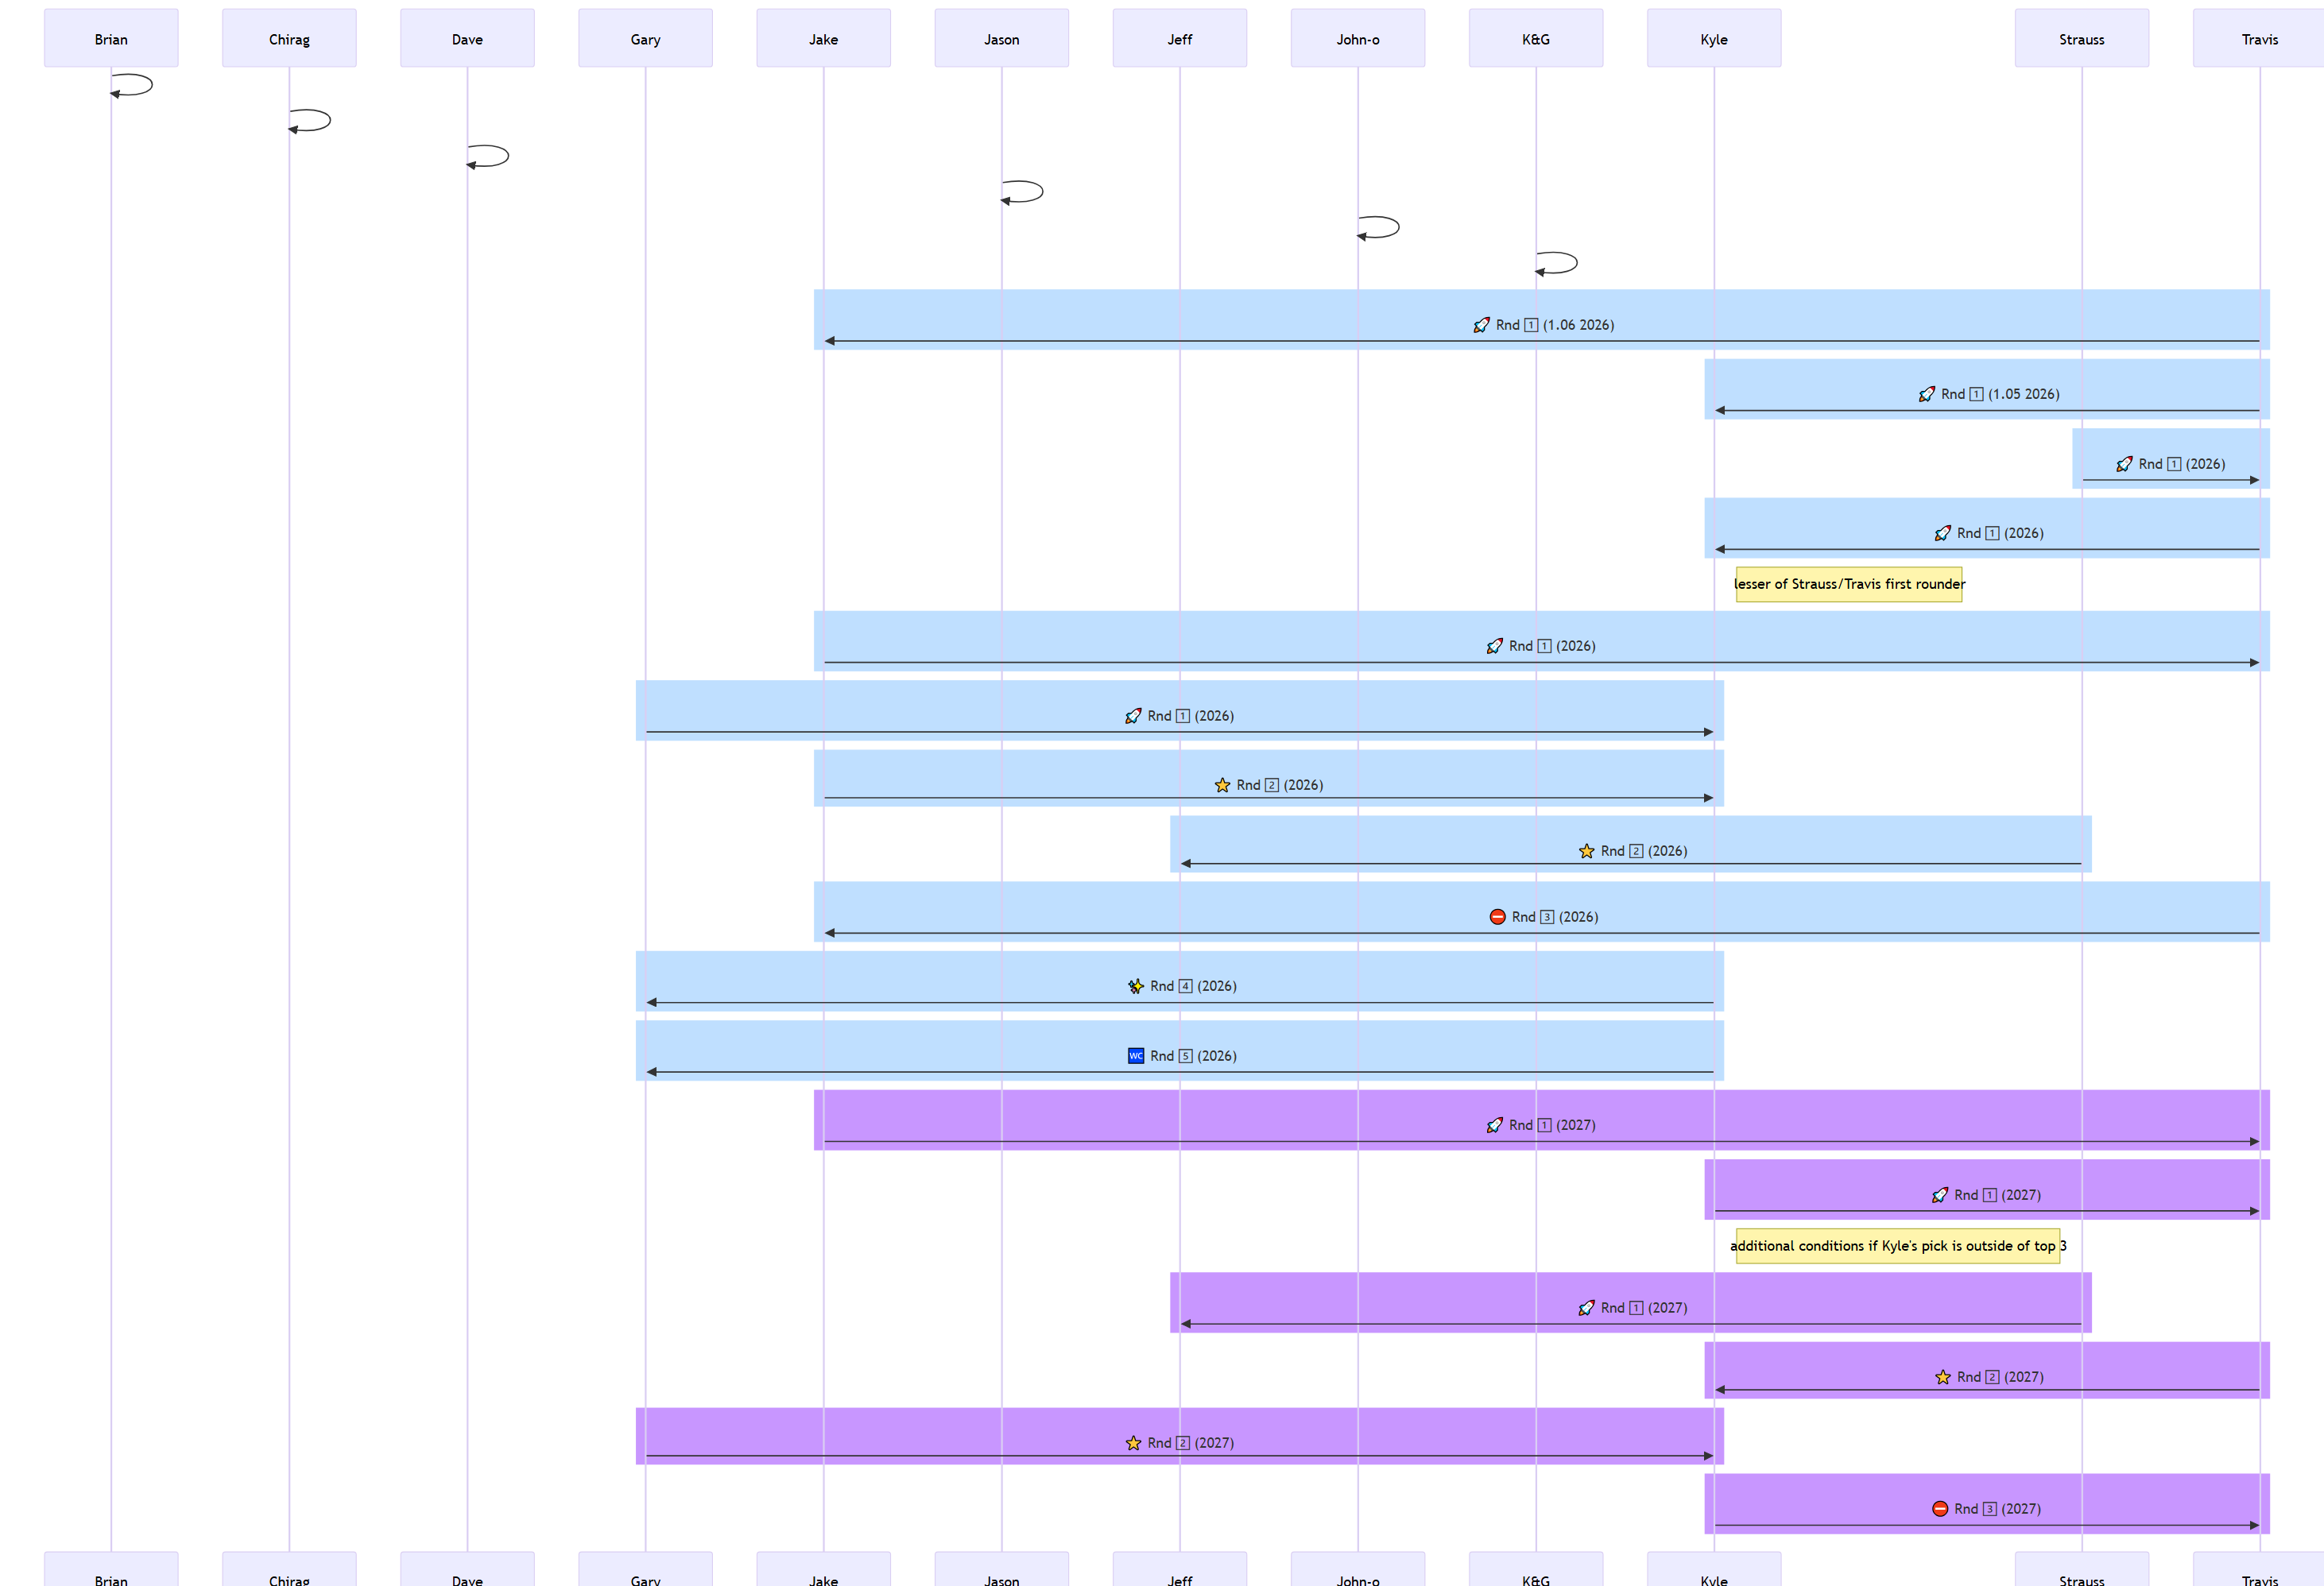
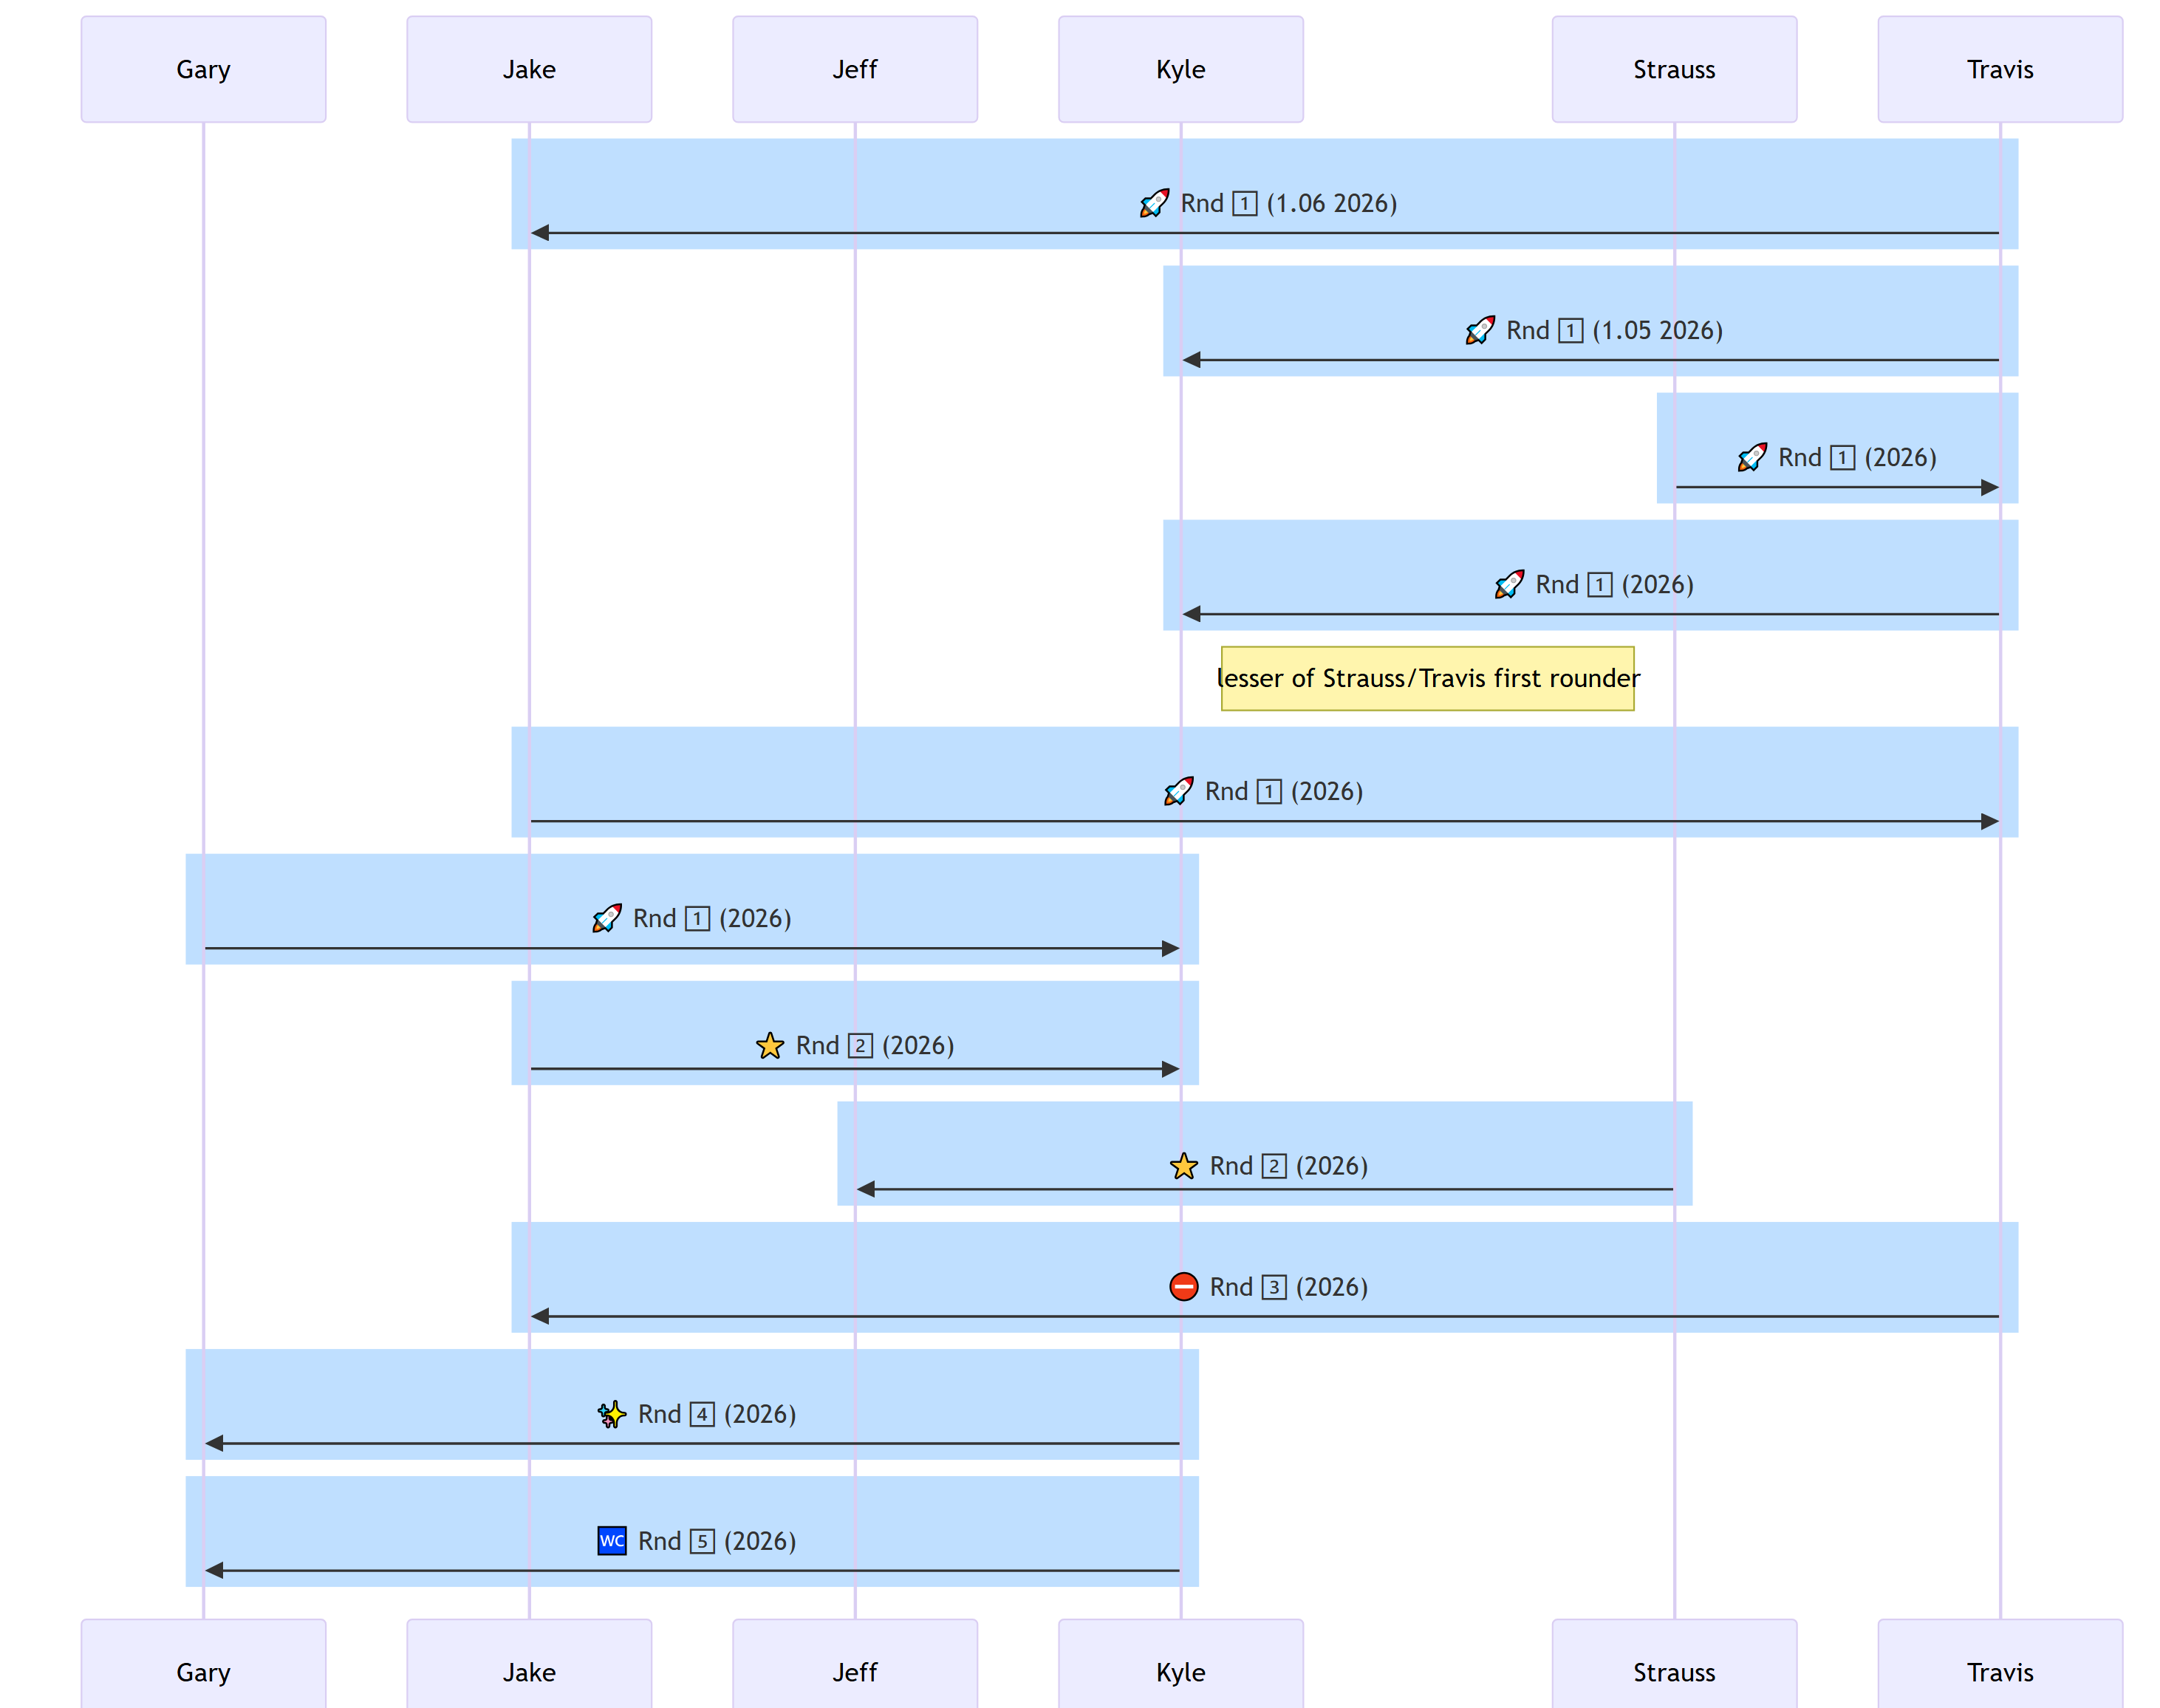
fig caps on charts - took 26 picks off total swap chart after drapht

diff --git a/docs/phantazee.html b/docs/phantazee.html
@@ -327,8 +327,14 @@ ul.task-list li input[type="checkbox"] {
 <div id="quarto-content" class="quarto-container page-columns page-rows-contents page-layout-article page-navbar">
 <!-- sidebar -->
 <!-- margin-sidebar -->
-    <div id="quarto-margin-sidebar" class="sidebar margin-sidebar zindex-bottom">
-        
+    <div id="quarto-margin-sidebar" class="sidebar margin-sidebar">
+        <nav id="TOC" role="doc-toc" class="toc-active">
+    <h2 id="toc-title">On this page</h2>
+   
+  <ul>
+  <li><a href="#past-years" id="toc-past-years" class="nav-link active" data-scroll-target="#past-years">Past Years</a></li>
+  </ul>
+</nav>
     </div>
 <!-- main -->
 <main class="content" id="quarto-document-content"><header id="title-block-header" class="quarto-title-block"></header>
@@ -338,40 +344,69 @@ ul.task-list li input[type="checkbox"] {
 
 
 <div class="cell">
-<div class="cell-output-display">
-<div class="chorddiag html-widget html-fill-item" id="htmlwidget-ccee221afac8f1881034" style="width:100%;height:464px;"></div>
-<script type="application/json" data-for="htmlwidget-ccee221afac8f1881034">{"x":{"matrix":[[0,1,2,0,0,0,0,2,0,0,0,0],[0,0,0,0,0,0,0,0,0,0,0,0],[3,0,0,0,0,0,0,1,2,0,0,0],[0,0,0,0,0,0,0,0,0,0,0,0],[0,0,0,0,0,0,0,0,0,0,0,0],[0,2,0,0,0,0,0,0,0,0,0,0],[0,0,0,0,0,0,0,0,0,0,0,0],[2,0,0,0,0,0,0,0,0,0,0,0],[0,0,2,0,0,0,0,0,0,0,0,0],[0,0,0,0,0,0,0,0,0,0,0,0],[0,0,0,0,0,0,0,0,0,0,0,0],[0,0,0,0,0,0,0,0,0,0,0,0]],"options":{"type":"directional","width":null,"height":null,"margin":100,"showGroupnames":true,"groupNames":["Travis","Strauss","Kyle","K&G","John-o","Jeff","Jason","Jake","Gary","Dave","Chirag","Brian"],"groupColors":["#1B9E77","#D95F02","#7570B3","#E7298A","#66A61E","#E6AB02","#A6761D","#666666"],"groupThickness":0.1,"groupPadding":0.03490658503988659,"groupnamePadding":[20,20,20,20,20,20,20,20,20,20,20,20],"groupnameFontsize":18,"groupedgeColor":null,"chordedgeColor":"#808080","categoryNames":null,"categorynamePadding":100,"categorynameFontsize":28,"showTicks":true,"tickInterval":0.1,"ticklabelFontsize":10,"fadeLevel":0.1,"showTooltips":true,"showZeroTooltips":true,"tooltipNames":["Travis","Strauss","Kyle","K&G","John-o","Jeff","Jason","Jake","Gary","Dave","Chirag","Brian"],"tooltipFontsize":12,"tooltipUnit":"","tooltipGroupConnector":" &#x25B6; ","precision":"null","clickAction":null,"clickGroupAction":null}},"evals":[],"jsHooks":[]}</script>
+<div id="fig-chord" class="cell-output-display quarto-float quarto-figure quarto-figure-center anchored">
+<figure class="quarto-float quarto-float-fig figure">
+<div aria-describedby="fig-chord-caption-0ceaefa1-69ba-4598-a22c-09a6ac19f8ca">
+<div class="chorddiag html-widget html-fill-item" id="htmlwidget-513922d8cdfa57957bed" style="width:100%;height:464px;"></div>
+<script type="application/json" data-for="htmlwidget-513922d8cdfa57957bed">{"x":{"matrix":[[0,1,2,0,0,0,0,2,0,0,0,0],[0,0,0,0,0,0,0,0,0,0,0,0],[3,0,0,0,0,0,0,1,2,0,0,0],[0,0,0,0,0,0,0,0,0,0,0,0],[0,0,0,0,0,0,0,0,0,0,0,0],[0,2,0,0,0,0,0,0,0,0,0,0],[0,0,0,0,0,0,0,0,0,0,0,0],[2,0,0,0,0,0,0,0,0,0,0,0],[0,0,2,0,0,0,0,0,0,0,0,0],[0,0,0,0,0,0,0,0,0,0,0,0],[0,0,0,0,0,0,0,0,0,0,0,0],[0,0,0,0,0,0,0,0,0,0,0,0]],"options":{"type":"directional","width":null,"height":null,"margin":100,"showGroupnames":true,"groupNames":["Travis","Strauss","Kyle","K&G","John-o","Jeff","Jason","Jake","Gary","Dave","Chirag","Brian"],"groupColors":["#1B9E77","#D95F02","#7570B3","#E7298A","#66A61E","#E6AB02","#A6761D","#666666"],"groupThickness":0.1,"groupPadding":0.03490658503988659,"groupnamePadding":[20,20,20,20,20,20,20,20,20,20,20,20],"groupnameFontsize":18,"groupedgeColor":null,"chordedgeColor":"#808080","categoryNames":null,"categorynamePadding":100,"categorynameFontsize":28,"showTicks":true,"tickInterval":0.1,"ticklabelFontsize":10,"fadeLevel":0.1,"showTooltips":true,"showZeroTooltips":true,"tooltipNames":["Travis","Strauss","Kyle","K&G","John-o","Jeff","Jason","Jake","Gary","Dave","Chirag","Brian"],"tooltipFontsize":12,"tooltipUnit":"","tooltipGroupConnector":" &#x25B6; ","precision":"null","clickAction":null,"clickGroupAction":null}},"evals":[],"jsHooks":[]}</script>
+</div>
+<figcaption class="quarto-float-caption-bottom quarto-float-caption quarto-float-fig" id="fig-chord-caption-0ceaefa1-69ba-4598-a22c-09a6ac19f8ca">
+Figure&nbsp;1: Total drapht pick trades (2026–) Chord diagram
+</figcaption>
+</figure>
 </div>
 </div>
-<blockquote class="blockquote">
-<p>Trade chart as of Jun, 2026 (<code>total</code> only reflects <u>incoming</u> picks – true total number of overall picks swapped is not reflected in the <code>total</code> “hover” reported number)</p>
-</blockquote>
+<div class="callout callout-style-default callout-note callout-titled">
+<div class="callout-header d-flex align-content-center">
+<div class="callout-icon-container">
+<i class="callout-icon"></i>
+</div>
+<div class="callout-title-container flex-fill">
+Note
+</div>
+</div>
+<div class="callout-body-container callout-body">
+<p><a href="#fig-chord" class="quarto-xref">Figure&nbsp;1</a> trade chart as of Jun, 2026 – <code>total</code> only reflects <u>incoming</u> picks – true total number of overall picks swapped is not reflected in the <code>total</code> “hover” reported number</p>
+</div>
+</div>
 <div class="cell" data-layout-align="default">
 <div class="cell-output-display">
+<div id="fig-current" class="quarto-float quarto-figure quarto-figure-center anchored">
+<figure class="quarto-float quarto-float-fig figure">
+<div aria-describedby="fig-current-caption-0ceaefa1-69ba-4598-a22c-09a6ac19f8ca">
 <div>
-<p></p><figure class="figure"><p></p>
-<div>
-<p><a href="phantazee_files\figure-html\mermaid-figure-1.png" class="lightbox" data-gallery="quarto-lightbox-gallery-1"><img src="phantazee_files\figure-html\mermaid-figure-1.png" style="width:8in;height:6.33in" class="figure-img"></a></p>
-</div>
-<p></p></figure><p></p>
+<p><a href="phantazee_files\figure-html\mermaid-figure-1.png" class="lightbox" data-gallery="quarto-lightbox-gallery-1" title="Figure&nbsp;2: Individual drapht pick trades (2027 and onward)"><img src="phantazee_files\figure-html\mermaid-figure-1.png" style="width:8in;height:2.76in" class="figure-img"></a></p>
 </div>
 </div>
+<figcaption class="quarto-float-caption-bottom quarto-float-caption quarto-float-fig" id="fig-current-caption-0ceaefa1-69ba-4598-a22c-09a6ac19f8ca">
+Figure&nbsp;2: Individual drapht pick trades (2027 and onward)
+</figcaption>
+</figure>
 </div>
-<p><a href="phantazee_files/figure-html/mermaid-figure-1.png" class="btn btn-primary" download="PhantazeeTrades26.png">Download 2026 Picks</a></p>
+</div>
+</div>
+<p><a href="phantazee_files/figure-html/mermaid-figure-1.png" class="btn btn-primary" download="PhantazeeTradesALL.png">Download Trades</a></p>
+<section id="past-years" class="level2">
+<h2 class="anchored" data-anchor-id="past-years">Past Years</h2>
 <div class="cell" data-layout-align="default">
 <div class="cell-output-display">
+<div id="fig-twentysix" class="quarto-float quarto-figure quarto-figure-center anchored">
+<figure class="quarto-float quarto-float-fig figure">
+<div aria-describedby="fig-twentysix-caption-0ceaefa1-69ba-4598-a22c-09a6ac19f8ca">
 <div>
-<p></p><figure class="figure"><p></p>
-<div>
-<p><a href="phantazee_files\figure-html\mermaid-figure-2.png" class="lightbox" data-gallery="quarto-lightbox-gallery-2"><img src="phantazee_files\figure-html\mermaid-figure-2.png" style="width:8in;height:5.46in" class="figure-img"></a></p>
-</div>
-<p></p></figure><p></p>
+<p><a href="phantazee_files\figure-html\mermaid-figure-2.png" class="lightbox" data-gallery="quarto-lightbox-gallery-2" title="Figure&nbsp;3: Individual drapht pick trades (2026)"><img src="phantazee_files\figure-html\mermaid-figure-2.png" style="width:8in;height:6.33in" class="figure-img"></a></p>
 </div>
 </div>
+<figcaption class="quarto-float-caption-bottom quarto-float-caption quarto-float-fig" id="fig-twentysix-caption-0ceaefa1-69ba-4598-a22c-09a6ac19f8ca">
+Figure&nbsp;3: Individual drapht pick trades (2026)
+</figcaption>
+</figure>
 </div>
-<p><a href="phantazee_files/figure-html/mermaid-figure-2.png" class="btn btn-primary" download="PhantazeeTradesALL.png">Download All Trades</a></p>
+</div>
+</div>
 
 
+</section>
 
 </main> <!-- /main -->
 <script id="quarto-html-after-body" type="application/javascript">

diff --git a/docs/discography.html b/docs/discography.html
@@ -352,8 +352,8 @@ ul.task-list li input[type="checkbox"] {
 <h2 class="anchored" data-anchor-id="songs-played">Songs played</h2>
 <div class="cell">
 <div class="cell-output-display">
-<div class="datatables html-widget html-fill-item" id="htmlwidget-409fe4157fd4ce610edb" style="width:100%;height:auto;"></div>
-<script type="application/json" data-for="htmlwidget-409fe4157fd4ce610edb">{"x":{"filter":"none","vertical":false,"data":[["Peter Gunn Theme","Sharp Dressed Man","Workin' Man Blues","Night of the Living Chimichanga","Hot Tub","Tight Pants","Mary had a Little Lamb","Folsom Prison","Color of Her Eyes","Stuck in the Middle with You","Eastbound &amp; Down","Cream","Keep your Hands to Yourself","Fast as You"],[" Henry Mancini","ZZ Top","Merle Haggard","The Crawlers","Kitty Wampas","Howard &amp; the White Boys"," Stevie Ray Vaughn"," Johnny Cash"," Gear Daddies"," Stealers Wheel"," Jerry Reed"," Prince"," Georgia Satelites"," Dwight Yoakam"]],"container":"<table class=\"display\">\n  <thead>\n    <tr>\n      <th>Song<\/th>\n      <th>Band<\/th>\n    <\/tr>\n  <\/thead>\n<\/table>","options":{"pageLength":5,"lengthMenu":[5,10,15,20,25],"columnDefs":[{"name":"Song","targets":0},{"name":"Band","targets":1}],"order":[],"autoWidth":false,"orderClasses":false}},"evals":[],"jsHooks":[]}</script>
+<div class="datatables html-widget html-fill-item" id="htmlwidget-830388fdc6fc8687dc52" style="width:100%;height:auto;"></div>
+<script type="application/json" data-for="htmlwidget-830388fdc6fc8687dc52">{"x":{"filter":"none","vertical":false,"data":[["Peter Gunn Theme","Sharp Dressed Man","Workin' Man Blues","Night of the Living Chimichanga","Hot Tub","Tight Pants","Mary had a Little Lamb","Folsom Prison","Color of Her Eyes","Stuck in the Middle with You","Eastbound &amp; Down","Cream","Keep your Hands to Yourself","Fast as You"],[" Henry Mancini","ZZ Top","Merle Haggard","The Crawlers","Kitty Wampas","Howard &amp; the White Boys"," Stevie Ray Vaughn"," Johnny Cash"," Gear Daddies"," Stealers Wheel"," Jerry Reed"," Prince"," Georgia Satelites"," Dwight Yoakam"]],"container":"<table class=\"display\">\n  <thead>\n    <tr>\n      <th>Song<\/th>\n      <th>Band<\/th>\n    <\/tr>\n  <\/thead>\n<\/table>","options":{"pageLength":5,"lengthMenu":[5,10,15,20,25],"columnDefs":[{"name":"Song","targets":0},{"name":"Band","targets":1}],"order":[],"autoWidth":false,"orderClasses":false}},"evals":[],"jsHooks":[]}</script>
 </div>
 </div>
 </section>